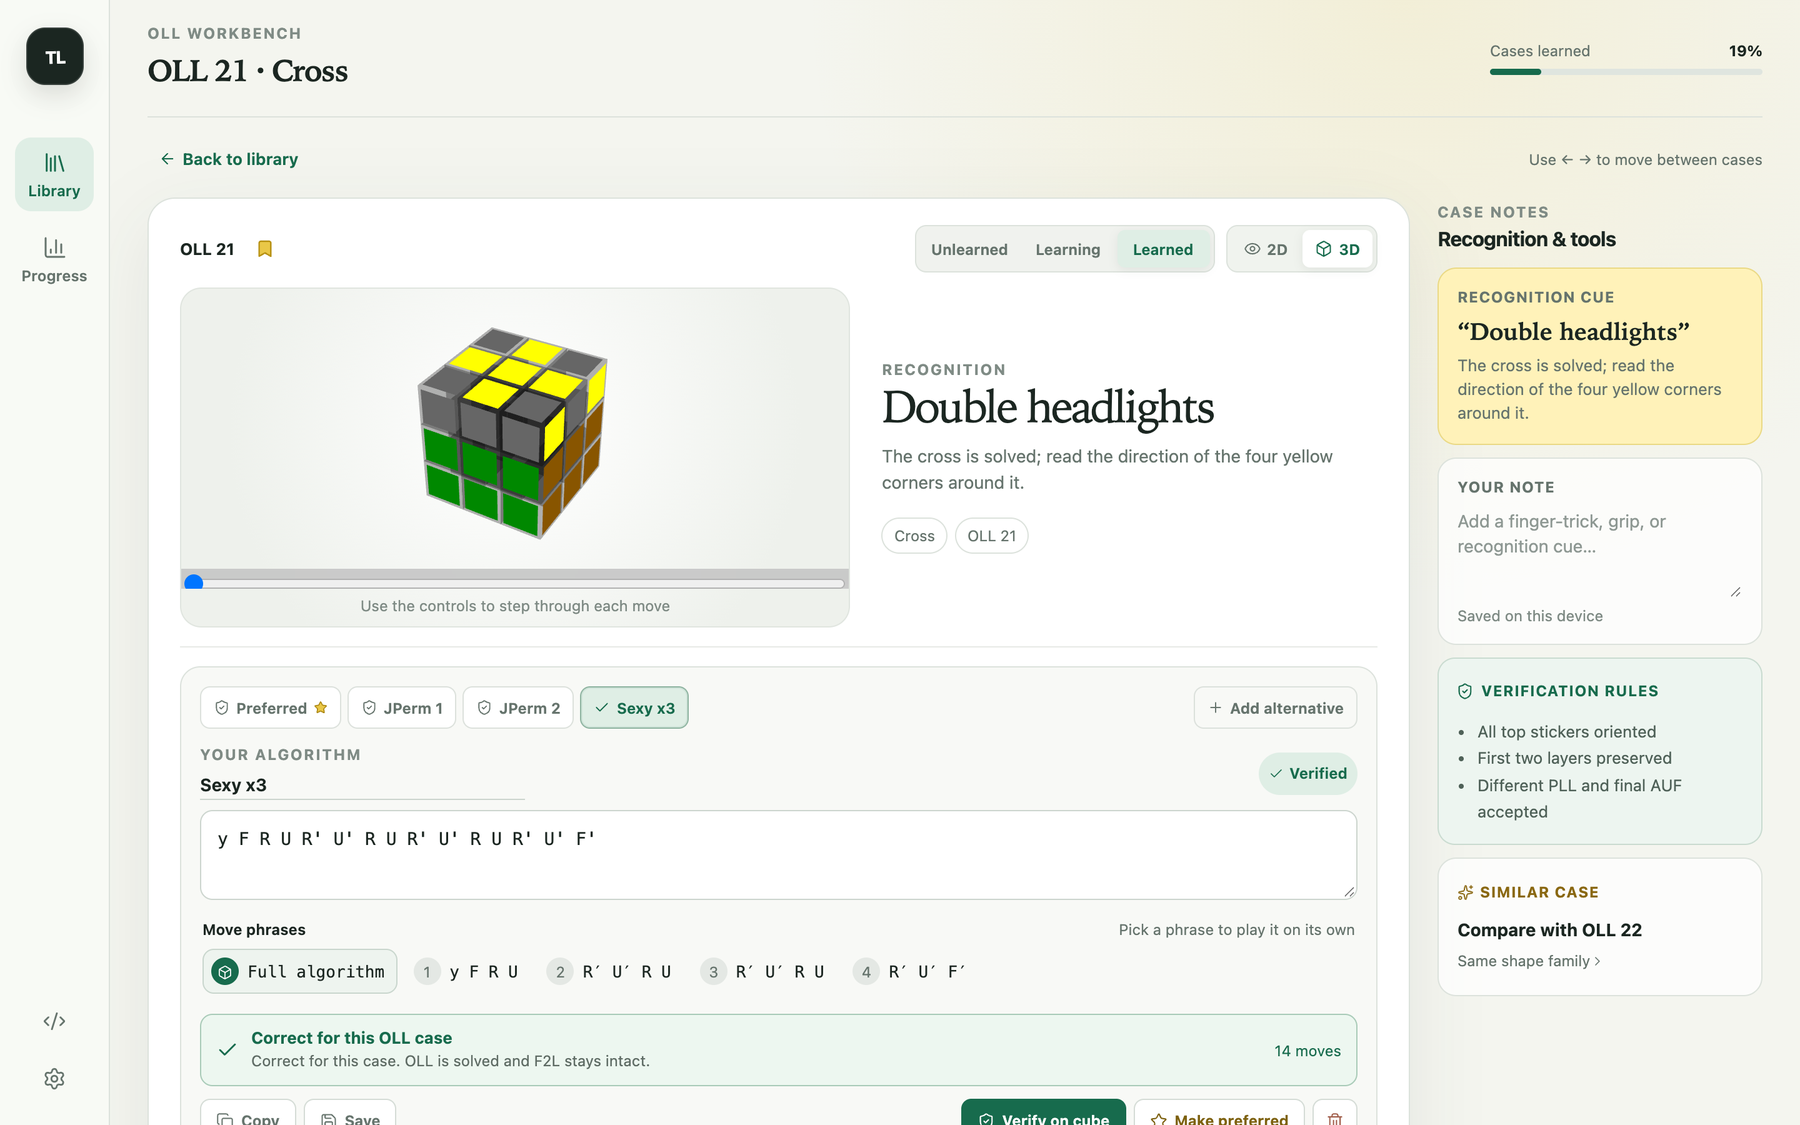
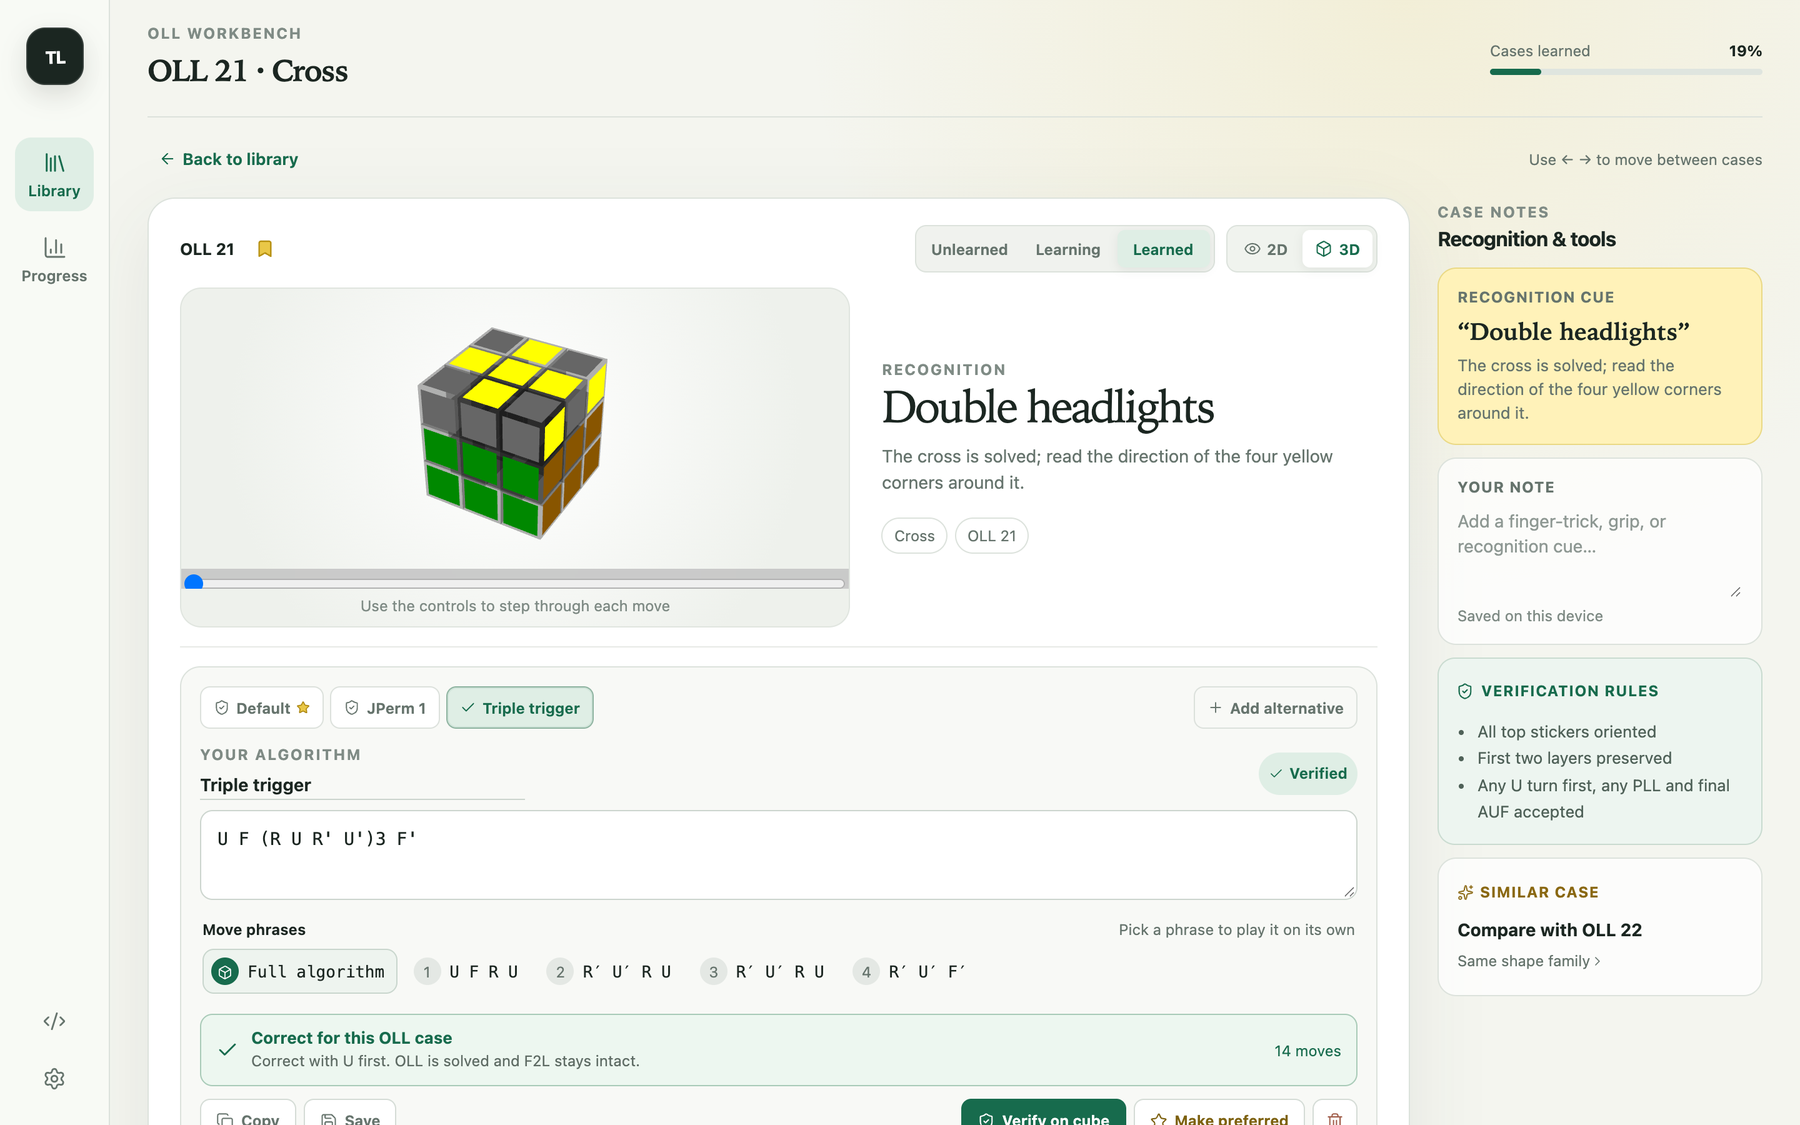
Update the README and screenshots
Describe what the tests verify, the 114 built-in algorithms, the U turn the verifier may add, the licence file and the tooling. Retake the screenshots with a neutral sample name.

diff --git a/README.md b/README.md
@@ -18,18 +18,18 @@ Twisty Lab keeps the whole set in one place. It has a filterable case library, a
 | | |
 |---|---|
 | Cases | All 57 OLL cases in 15 recognition-shape groups |
-| Built-in algorithms | 121: a curated default for each case plus 64 distinct alternatives from JPerm's OLL list |
-| Verification | Your own algorithms must pass the simulator check before they can become the preferred one |
-| Tests | 303 unit tests (Vitest). Every built-in algorithm (the 57 defaults and all 98 JPerm listings) passes the verifier |
-| Case diagrams | Generated from the algorithms, not drawn by hand. A test proves they are 57 distinct cases |
+| Built-in algorithms | 114: a curated default for each case plus 57 JPerm listings that differ from it (duplicates of the default are hidden) |
+| Verification | Your own algorithms must pass the simulator check before they can become the preferred one, and lose that status when their text changes |
+| Tests | All 98 JPerm listings are cross-checked against the case that the curated default sets up; the 57 diagrams are regenerated and compared; a test enumerates all 216 last-layer orientation states to show the cases cover OLL |
+| Case diagrams | Generated from the algorithms, not drawn by hand |
 | Platforms | Web (GitHub Pages, responsive down to 375 px wide) and an Electron desktop shell |
 
 ## Features
 
 - **Library:** search by case number, shape group, recognition cue or move. Filter by group and learning status, and bookmark cases.
-- **Workbench:** a 3D or top-view 2D cube animated with [cubing.js](https://js.cubing.net/cubing/), held with yellow on top to match the case diagrams. Switch between the preferred algorithm, the JPerm alternatives and your own.
-- **Move phrases:** each algorithm is split into four-move phrases. Pick one to replay it on its own from the position where it starts.
-- **Your algorithms:** add, name, verify, save and delete alternatives. Only verified ones can be made preferred.
+- **Workbench:** a 3D or top-view 2D cube animated with [cubing.js](https://js.cubing.net/cubing/), held with yellow on top to match the case diagrams. Switch between the default algorithm, the JPerm alternatives and your own.
+- **Move phrases:** each algorithm is split into phrases of four moves (cube rotations ride along and do not count). Pick one to replay it on its own from the position where it starts.
+- **Your algorithms:** add, name, verify, save and delete alternatives. Only verified ones can be made preferred. Saving a changed text on the preferred one hands the preferred slot back to the default until the new text passes.
 - **Study aids:** learning status (unlearned, learning, learned), notes, a progress dashboard with completion per shape group, side-by-side comparison with a similar case, and ← / → to step through cases.
 - **Local first:** progress, notes and custom algorithms stay in the browser's localStorage. No account and no server.
 
@@ -40,17 +40,17 @@ Twisty Lab keeps the whole set in one place. It has a filterable case library, a
 `verifyAlgorithm` in [`src/cube.ts`](src/cube.ts) runs entirely on the cubing.js `KPuzzle` model of the 3x3x3:
 
 1. **Rebuild the case.** It applies the inverse of the case's reference algorithm to a solved cube. The result is exactly the position that the reference algorithm solves.
-2. **Apply the candidate.** It parses the notation (groupings, commutators and conjugates included) and applies it to that position.
+2. **Apply the candidate.** It parses the notation (groupings, commutators and conjugates included), checks that every move exists on a 3x3x3, and applies it to that position, first as is and then after `U`, `U'` or `U2`.
 3. **Normalise the orientation.** Candidates may contain rotations (`x`, `y`, `z`) or slice and wide moves that move the centres. The 24 whole-cube orientations are enumerated once by a breadth-first search over `x`, `y` and `z`, keyed by the centre permutation. The result is then turned so that every centre is back home.
 4. **Accept OLL.** The four last-layer edges and corners must have orientation 0 (every U sticker on top). Every F2L edge and corner must be in its home slot with orientation 0. The last-layer permutation (PLL) and a final U turn (AUF) are left free.
 
-Failures are reported precisely: a syntax error, a move the 3x3x3 does not have, *"OLL is oriented, but the algorithm changes an F2L piece"*, or *"F2L stays intact, but at least one top sticker remains unoriented"*. For example, `F (R U R' U')3 F'` is rejected for OLL 21 as the app sets it up, while `y F (R U R' U')3 F'` is accepted. Both are in the test suite.
+If the algorithm only works after a U turn, the verifier says so and the app saves it with that turn in front: `F (R U R' U')3 F'` on OLL 21 gives *"Correct with U first"* and is stored as `U F (R U R' U')3 F'`. Failures are reported as a readable syntax error (for example an unclosed bracket, with the parser's own message underneath), a move the 3x3x3 does not have, *"OLL is oriented, but the algorithm changes an F2L piece"*, or *"F2L stays intact, but at least one top sticker remains unoriented"*. All of these are in the test suite.
 
 ### Case diagrams
 
-[`scripts/generate-images.mjs`](scripts/generate-images.mjs) rebuilds each case the same way and reads the last-layer orientation directly from the `KPuzzle` pattern ([`src/ollDiagram.ts`](src/ollDiagram.ts)). A piece with orientation *o* shows its U sticker on facelet *o* of its slot, and facelets are numbered clockwise from the U face. From that, the script writes one SVG per case, the favicon and the app icon.
+[`scripts/generate-images.mjs`](scripts/generate-images.mjs) rebuilds each case the same way and reads the last-layer orientation directly from the `KPuzzle` pattern ([`src/ollDiagram.ts`](src/ollDiagram.ts)). A piece with orientation *o* shows its U sticker on facelet *o* of its slot, and facelets are numbered clockwise from the U face. From that, the script writes one SVG per case, the favicon and `build/icon.svg`. The 512 px `build/icon.png` that electron-builder needs is rasterised from that SVG separately and is not part of the `--check` run.
 
-The tests check four things. First, the committed SVGs match the generator. Second, each diagram shows every U sticker exactly once, on top or on a side. Third, the shapes agree with the recognition groups: dot cases have no oriented edge, cross cases have all four, and every other case has exactly two. Fourth, the 57 diagrams differ pairwise even after U turns. The 216 possible last-layer orientation states fall into exactly 58 classes under U turns (by Burnside's lemma), and one of those is the solved state. So this proves that the reference algorithms cover all of OLL.
+The tests check that the committed SVGs match the generator, that each diagram shows every U sticker exactly once, and that the shapes agree with the recognition groups (dot cases have no oriented edge, cross cases have all four, every other case has exactly two). They also show that the 57 cases are all of OLL: the test enumerates the 216 possible orientation states of the last layer, groups them into the 58 classes that remain under U turns, and checks that the 57 cases plus the solved state hit every class once.
 
 ![Case library with the generated top-view diagrams (sample progress data)](docs/library.png)
 
@@ -58,9 +58,10 @@ The tests check four things. First, the committed SVGs match the generator. Seco
 
 ```mermaid
 flowchart LR
-  Data["algorithms.ts + data.ts<br/>57 cases, 121 algorithms"]
+  Data["algorithms.ts + data.ts<br/>57 cases, 114 algorithms"]
   subgraph runtime ["Runtime: browser or Electron window"]
-    UI["App.tsx<br/>library, workbench, progress"]
+    UI["App.tsx + components/<br/>library, workbench, progress"]
+    State["algorithmState.ts<br/>preferred / verified rules"]
     Player["cubing.js TwistyPlayer<br/>2D / 3D animation"]
     Verify["cube.ts<br/>verifyAlgorithm"]
     Model["cubing.js KPuzzle<br/>3x3x3 model"]
@@ -73,13 +74,14 @@ flowchart LR
   Data --> UI
   Data --> Gen
   Gen -- "public/oll/*.svg" --> UI
+  UI --> State
   UI -- "case setup + algorithm" --> Player
   UI -- "candidate" --> Verify --> Model
   UI <--> Store
   Shell -.-> UI
 ```
 
-The web build is static: relative asset URLs (`base: './'`) let the same `dist/` load from `file://` in Electron and from `/twisty-lab/` on GitHub Pages. In the browser the custom window bar is hidden. In Electron the window has a hidden title bar with `contextIsolation` and `sandbox` enabled, and the preload script exposes only the platform name and the minimise, maximise and close actions.
+The web build is static: relative asset URLs (`base: './'`) let the same `dist/` load from `file://` in Electron and from `/twisty-lab/` on GitHub Pages. The build also writes `third-party-licenses.txt` with the licence of every bundled package. In the browser the custom window bar is hidden. In Electron the window has no native title bar, `contextIsolation` and `sandbox` are enabled, and the preload script exposes only the platform name and the minimise, maximise and close actions.
 
 ## Quickstart
 
@@ -89,6 +91,8 @@ Requires Node.js 22.18 or newer.
 npm ci                    # ELECTRON_SKIP_BINARY_DOWNLOAD=1 npm ci skips Electron for web-only use
 npm run dev               # web app on http://127.0.0.1:5173
 npm test                  # Vitest suite
+npm run lint              # ESLint (typescript-eslint, react-hooks)
+npm run format:check      # Prettier
 npm run build             # type-check and build into dist/
 npm run preview           # serve the production build
 npm run dev:desktop       # Electron window with hot reload (needs the Electron binary)
@@ -99,16 +103,21 @@ npm run generate:images   # regenerate case diagrams, favicon and icon source
 
 ```text
 src/
-  App.tsx            UI: library, workbench, progress, dialogs
+  App.tsx            app state, navigation and storage
+  components/        library, workbench, progress view, cube player, dialogs
+  hooks/             localStorage-backed state, debouncing, notation check
+  algorithmState.ts  pure rules for default, JPerm and custom algorithms
   cube.ts            verifyAlgorithm and notation checks on the KPuzzle model
-  notation.ts        parsing, move counting, phrase splitting
+  notation.ts        parsing, move counting, phrase splitting, duplicate keys
   ollDiagram.ts      last-layer orientation reader and SVG renderer
   algorithms.ts      reference algorithms: curated defaults, JPerm lists, alignment rotations
   data.ts            cases, shape groups, recognition cues
+  progress.ts        learning status and notes
   styles.css         design tokens, desktop shell and responsive layout
   *.test.ts          Vitest suites
 scripts/
   generate-images.mjs
+  third-party-licenses.mjs   Vite plugin that writes dist/third-party-licenses.txt
 public/oll/          generated case diagrams (1.svg ... 57.svg)
 electron/            main process and preload script
 build/               app icon (SVG source and 512 px PNG) for electron-builder
@@ -120,29 +129,30 @@ docs/                README screenshots
 
 | Suite | What it covers |
 |---|---|
-| `cube.test.ts` | Reference data (57 cases, 121 built-in algorithms). Every preferred algorithm, all 98 JPerm listings and the 64 shown in the UI pass the verifier. Acceptance rules: final AUF, trailing rotations, rotations mid-algorithm, a required pre-rotation. Rejections: F2L broken, wrong case, syntax errors, unknown moves, empty input |
-| `notation.test.ts` | Parsing, move counts without rotations, phrase splitting |
-| `ollDiagram.test.ts` | Group consistency, the 57-distinct-cases proof, committed SVGs in sync with the generator |
+| `cube.test.ts` | Each curated default sets up a valid, unsolved last-layer case. All 98 JPerm listings, with their alignment rotation, solve the case the default sets up without any extra U turn. The UI shows 114 algorithms, no duplicates and no stacked rotations. Acceptance rules: final AUF, trailing rotations, rotations mid-algorithm, a needed U turn first. Rejections: F2L broken, wrong case, syntax errors with their messages, unknown moves, empty input |
+| `algorithmState.test.ts` | Only verified algorithms become preferred, an edited preferred algorithm hands the slot back to the default, stored data is repaired, and a 1,000-step random sequence of edits never breaks that rule |
+| `notation.test.ts` | Parsing, move counts without rotations, phrase splitting, rotation merging, duplicate detection |
+| `ollDiagram.test.ts` | Group consistency, the 216-state enumeration, committed SVGs in sync with the generator |
 | `styles.test.ts` | No font size below 12 px |
 
-[`ci.yml`](.github/workflows/ci.yml) runs on every push and pull request. It runs `npm ci` (without the Electron binary), `tsc --noEmit`, Vitest, a check that the generated images are current, and `vite build`. [`pages.yml`](.github/workflows/pages.yml) tests, builds and deploys `dist/` to GitHub Pages.
+[`ci.yml`](.github/workflows/ci.yml) runs on pushes to `main` and on pull requests. It runs `npm ci` (without the Electron binary), ESLint, a Prettier check, `tsc --noEmit`, Vitest, a check that the generated images are current, and `vite build`. [`pages.yml`](.github/workflows/pages.yml) tests, builds and deploys `dist/` to GitHub Pages.
 
 ## Limitations
 
 - It verifies algorithms but does not search for them. There is no solver and no pruning table.
-- Verification starts from the case exactly as the app displays it. An algorithm that needs a U turn or a `y` rotation first must include it.
 - It covers OLL only, with no PLL or F2L training.
 - Progress lives in one browser's localStorage, with no sync or export.
-- Recognition cues are hand-written for 16 cases. The others use a generic hint for their shape group.
+- Recognition cues are specific to 16 cases. The others use a generic hint for their shape group.
 - Move counts skip whole-cube rotations and count slice and wide moves as one move each.
-- The desktop packages are unsigned and not distributed. The electron-builder configuration is for local packaging.
+- The desktop shell has been run on macOS only. The packages are unsigned and not distributed; the electron-builder configuration is for local packaging.
 - cubing.js loads its three.js-based 3D renderer as a single ~510 kB chunk the first time the 3D view is shown.
 
 ## Credits
 
-- Alternative algorithms and shape-group names: [JPerm's OLL list](https://jperm.net/algs/oll). The app labels them "Imported from JPerm".
+- Algorithms (all alternatives and 41 of the 57 curated defaults, identical up to notation) and shape-group names: [JPerm's OLL list](https://jperm.net/algs/oll). The app labels them "Imported from JPerm" or "also listed as JPerm n". The other 16 defaults come from a personal list of preferred algorithms.
 - [cubing.js](https://github.com/cubing/cubing.js): cube model, notation parser and player. Licensed MPL-2.0 OR GPL-3.0-or-later.
 - [Lucide](https://lucide.dev) icons (ISC). [React](https://react.dev), [three.js](https://threejs.org), [Vite](https://vite.dev) and [Electron](https://www.electronjs.org) (MIT).
+- The web build ships `third-party-licenses.txt` with the full licence texts of the bundled packages.
 
 ## License
 
